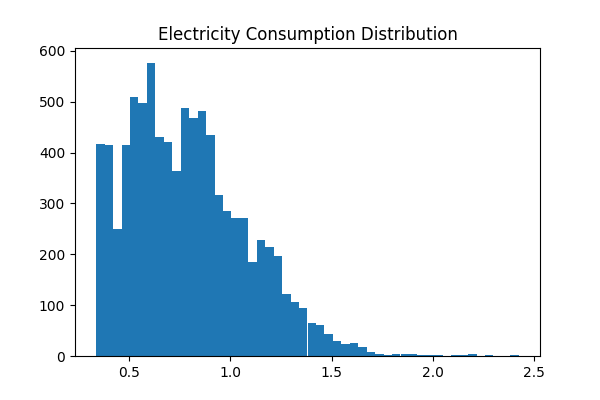
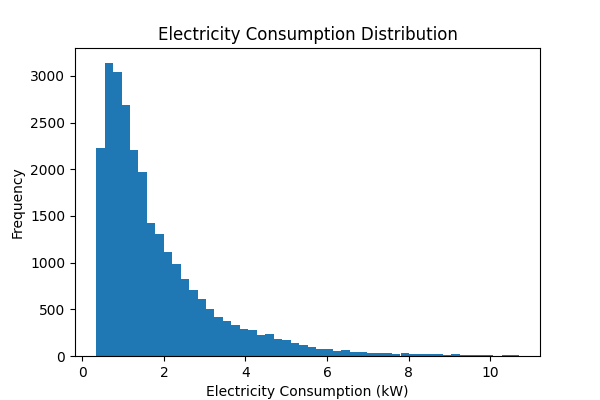
Added Consolidated Dataset-3 Years. Also made minor changes

diff --git a/main.py b/main.py
@@ -11,41 +11,54 @@ from tensorflow.keras.callbacks import EarlyStopping
 
 import os
 
-#train or load the ml model
-TRAIN_MODEL = False   #kept true to train model, false to load model
+# Train model- True. Load model-False.
+TRAIN_MODEL = True
 
-#loadinf the dataset
-df = pd.read_csv("USA_GA_Albany-Dougherty.County.AP.722160_TMY3_LOW.csv")
+#Loading datasets
+files = [
+    "USA_GA_Albany-Dougherty.County.AP.722160_TMY3_LOW.csv",
+    "USA_GA_Albany-Dougherty.County.AP.722160_TMY3_BASE.csv",
+    "USA_GA_Albany-Dougherty.County.AP.722160_TMY3_HIGH.csv"
+]
 
-print("Initial shape:", df.shape)
+dfs = []
 
-#preprocessing
-df["Date/Time"] = "2025 " + df["Date/Time"]
+for i, file in enumerate(files):
+    temp_df = pd.read_csv(file)
 
-mask_24 = df["Date/Time"].str.contains("24:00:00")
+    # Assign different year to avoid timestamp overlap
+    year = 2023 + i
+    temp_df["Date/Time"] = f"{year} " + temp_df["Date/Time"]
 
-df.loc[mask_24, "Date/Time"] = (
-    df.loc[mask_24, "Date/Time"]
-    .str.replace("24:00:00", "00:00:00", regex=False)
-)
+    # Fix 24:00:00 issue
+    mask_24 = temp_df["Date/Time"].str.contains("24:00:00")
 
-df["Date/Time"] = pd.to_datetime(
-    df["Date/Time"], format="%Y %m/%d  %H:%M:%S"
-)
+    temp_df.loc[mask_24, "Date/Time"] = (
+        temp_df.loc[mask_24, "Date/Time"]
+        .str.replace("24:00:00", "00:00:00", regex=False)
+    )
 
-df.loc[mask_24, "Date/Time"] += pd.Timedelta(days=1)
+    temp_df["Date/Time"] = pd.to_datetime(
+        temp_df["Date/Time"], format="%Y %m/%d  %H:%M:%S"
+    )
 
+    temp_df.loc[mask_24, "Date/Time"] += pd.Timedelta(days=1)
+
+    dfs.append(temp_df)
+
+# Combine datasets
+df = pd.concat(dfs)
 df = df.sort_values("Date/Time").set_index("Date/Time")
 
+print("Consolidated shape:", df.shape)
 
-#target feature
+#target Feature from dataset
 target_col = "Electricity:Facility [kW](Hourly)"
 series = df[target_col]
 
+print("Null values:", series.isnull().sum())
 
-# EDA- analysis of dataset
-
-# 1⃣ Full Time Series
+#eda plots
 plt.figure(figsize=(12,4))
 plt.plot(series)
 plt.title("Full Electricity Consumption Time Series")
@@ -54,7 +67,6 @@ plt.ylabel("Electricity Consumption (kW)")
 plt.savefig("eda_full_series.png")
 plt.close()
 
-# 2⃣ First Week Pattern
 plt.figure(figsize=(10,4))
 plt.plot(series.iloc[:24*7])
 plt.title("First Week Consumption Pattern")
@@ -63,7 +75,6 @@ plt.ylabel("Electricity Consumption (kW)")
 plt.savefig("eda_first_week.png")
 plt.close()
 
-# 3⃣ First 48 Hours (Hourly Pattern)
 plt.figure(figsize=(10,4))
 plt.plot(series.iloc[:48])
 plt.title("First 48 Hours Consumption Pattern")
@@ -72,33 +83,29 @@ plt.ylabel("Electricity Consumption (kW)")
 plt.savefig("eda_48_hours.png")
 plt.close()
 
-# 4⃣ Distribution Histogram
 plt.figure(figsize=(6,4))
 plt.hist(series, bins=50)
 plt.title("Electricity Consumption Distribution")
-plt.xlabel("Time (Hours)")
-plt.ylabel("Electricity Consumption (kW)")
+plt.xlabel("Electricity Consumption (kW)")
+plt.ylabel("Frequency")
 plt.savefig("eda_distribution.png")
 plt.close()
 
-
-#train-test split
+#Train test split
 split_ratio = 0.8
 split_index = int(len(series) * split_ratio)
 
 train_series = series.iloc[:split_index]
 test_series  = series.iloc[split_index:]
 
-
-# scaling - to prevent domination of larger feature values(normalisation)
+# scaling
 scaler = MinMaxScaler()
 
 train_scaled = scaler.fit_transform(train_series.values.reshape(-1, 1))
 test_scaled  = scaler.transform(test_series.values.reshape(-1, 1))
 
-
-# sequence creation 
-TIME_STEPS = 24
+#Sequence creation
+TIME_STEPS = 168   # Weekly seasonality
 
 def create_sequences(data, time_steps):
     X, y = [], []
@@ -110,14 +117,17 @@ def create_sequences(data, time_steps):
 X_train, y_train = create_sequences(train_scaled, TIME_STEPS)
 X_test, y_test   = create_sequences(test_scaled, TIME_STEPS)
 
+print("Training shape:", X_train.shape)
+print("Testing shape:", X_test.shape)
 
-# training / loading model
+#training or loading model
 if TRAIN_MODEL or not os.path.exists("electricity_lstm_model.h5"):
 
     print("\nTraining Model...")
 
     model = Sequential([
-        LSTM(50, activation="tanh", input_shape=(TIME_STEPS, 1)),
+        LSTM(64, return_sequences=True, input_shape=(TIME_STEPS, 1)),
+        LSTM(32),
         Dense(1)
     ])
 
@@ -125,14 +135,14 @@ if TRAIN_MODEL or not os.path.exists("electricity_lstm_model.h5"):
 
     early_stop = EarlyStopping(
         monitor="val_loss",
-        patience=5,
+        patience=7,
         restore_best_weights=True
     )
 
     history = model.fit(
         X_train,
         y_train,
-        epochs=50,
+        epochs=100,
         batch_size=32,
         validation_split=0.1,
         callbacks=[early_stop],
@@ -144,37 +154,34 @@ if TRAIN_MODEL or not os.path.exists("electricity_lstm_model.h5"):
 else:
     print("\nLoading Saved Model...")
     model = load_model("electricity_lstm_model.h5", compile=False)
-
-    model.compile(
-    optimizer="adam",
-    loss="mse"
-    )
+    model.compile(optimizer="adam", loss="mse")
     history = None
 
-
-# predicting
+#Prediction
 y_pred = model.predict(X_test)
 
 y_test_inv = scaler.inverse_transform(y_test)
 y_pred_inv = scaler.inverse_transform(y_pred)
 
-
-# saving the predictions
 np.save("y_test.npy", y_test_inv)
 np.save("y_pred.npy", y_pred_inv)
 
-
-# evaluating with rmse and mae
+# Evaluation
 rmse = np.sqrt(mean_squared_error(y_test_inv, y_pred_inv))
 mae  = mean_absolute_error(y_test_inv, y_pred_inv)
+
+#mape Calculation
+epsilon = 1e-10  # small value to prevent division by zero
+mape = np.mean(
+    np.abs((y_test_inv - y_pred_inv) / (y_test_inv + epsilon))
+) 
 
 print("\nModel Evaluation:")
 print("RMSE:", rmse)
 print("MAE:", mae)
+print("MAPE:", mape, "%")
 
-
-# graph plots
-#1
+# Plots
 plt.figure(figsize=(10,5))
 plt.plot(y_test_inv, label="Actual")
 plt.plot(y_pred_inv, label="Predicted")
@@ -183,8 +190,6 @@ plt.title("Actual vs Predicted Electricity")
 plt.savefig("actual_vs_predicted.png")
 plt.close()
 
-
-#2
 if history is not None:
     plt.figure(figsize=(8,4))
     plt.plot(history.history['loss'], label='Training Loss')
@@ -194,5 +199,4 @@ if history is not None:
     plt.savefig("training_loss.png")
     plt.close()
 
-
-print("\n✅ EDA plots, predictions, and model ready.")
+print("\n✅ Model training, evaluation, and plots completed successfully.")
